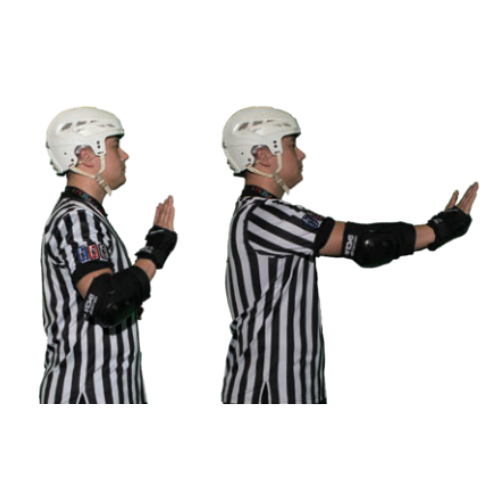
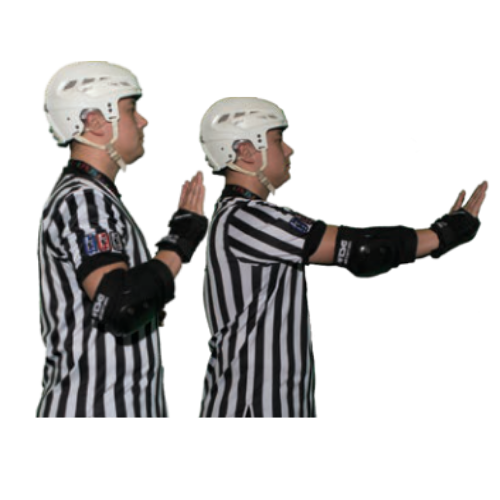
added additional images

Changed region(s): [[0.06, 0.12, 0.99, 0.84]]

diff --git a/style.css b/style.css
@@ -460,29 +460,11 @@ h1.rule-name {
   color: var(--text-faint);
   margin-bottom: 10px;
 }
-
-.outcome-block .verdict-badge {
-  display: inline;
-  font-size: 11px;
-  font-weight: 700;
-  text-transform: uppercase;
-  letter-spacing: 0.06em;
-  padding: 3px 10px;
-  border-radius: 20px;
-  margin-right: 10px;
-  vertical-align: middle;
-  white-space: nowrap;
-}
-
-#scenarioOutcomeText {
-  display: inline;
-  vertical-align: middle;
-}
 .outcome-block     { border-left: 5px solid var(--green); }
 .outcome-block.pen { border-left-color: var(--red); }
 
-.verdict-pen  { background: var(--red-bg);   color: var(--red); }
-.verdict-none { background: var(--green-bg); color: var(--green); }
+.outcome-block .block-title     { color: var(--green); }
+.outcome-block.pen .block-title { color: var(--red); }
 
 .kim-block { background: var(--kim-bg); border-color: var(--kim-line); }
 .kim-block .block-title { color: var(--kim-text); }

diff --git a/app.js b/app.js
@@ -224,8 +224,6 @@ function renderScenario(id) {
   const isPenalty = /penaliz|expelled|expulsion/i.test(scenario.outcome) ||
     (/penalty/i.test(scenario.outcome) && !/no penalty/i.test(scenario.outcome));
   outcomeBlock.className = 'scenario-block outcome-block' + (isPenalty ? ' pen' : '');
-  badge.className = 'verdict-badge ' + (isPenalty ? 'verdict-pen' : 'verdict-none');
-  badge.textContent = isPenalty ? 'Penalty' : 'No penalty';
   const outcomeTextEl = document.getElementById('scenarioOutcomeText');
   outcomeTextEl.textContent = scenario.outcome;
 
